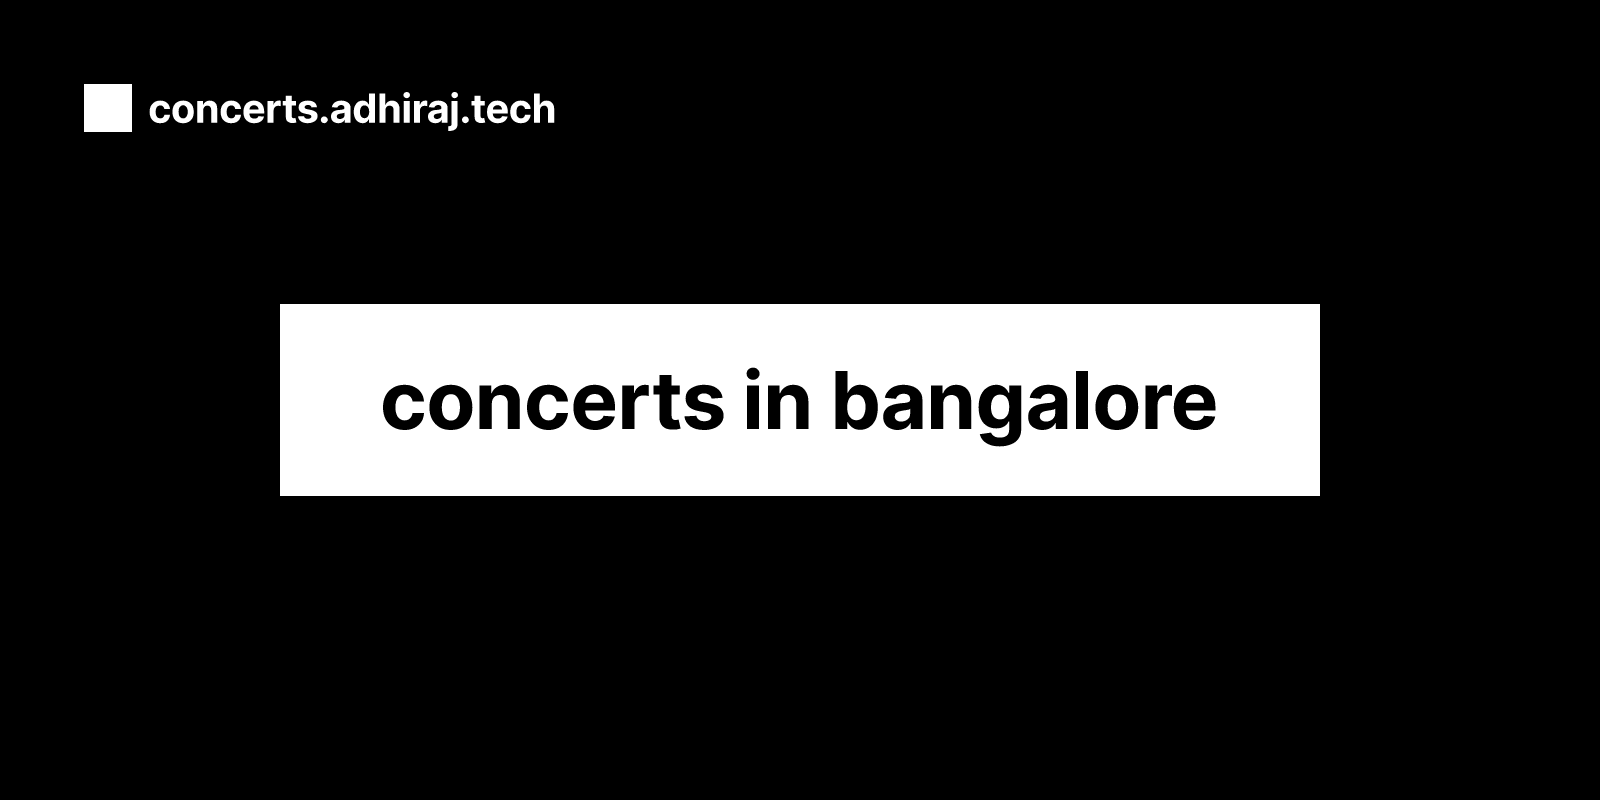
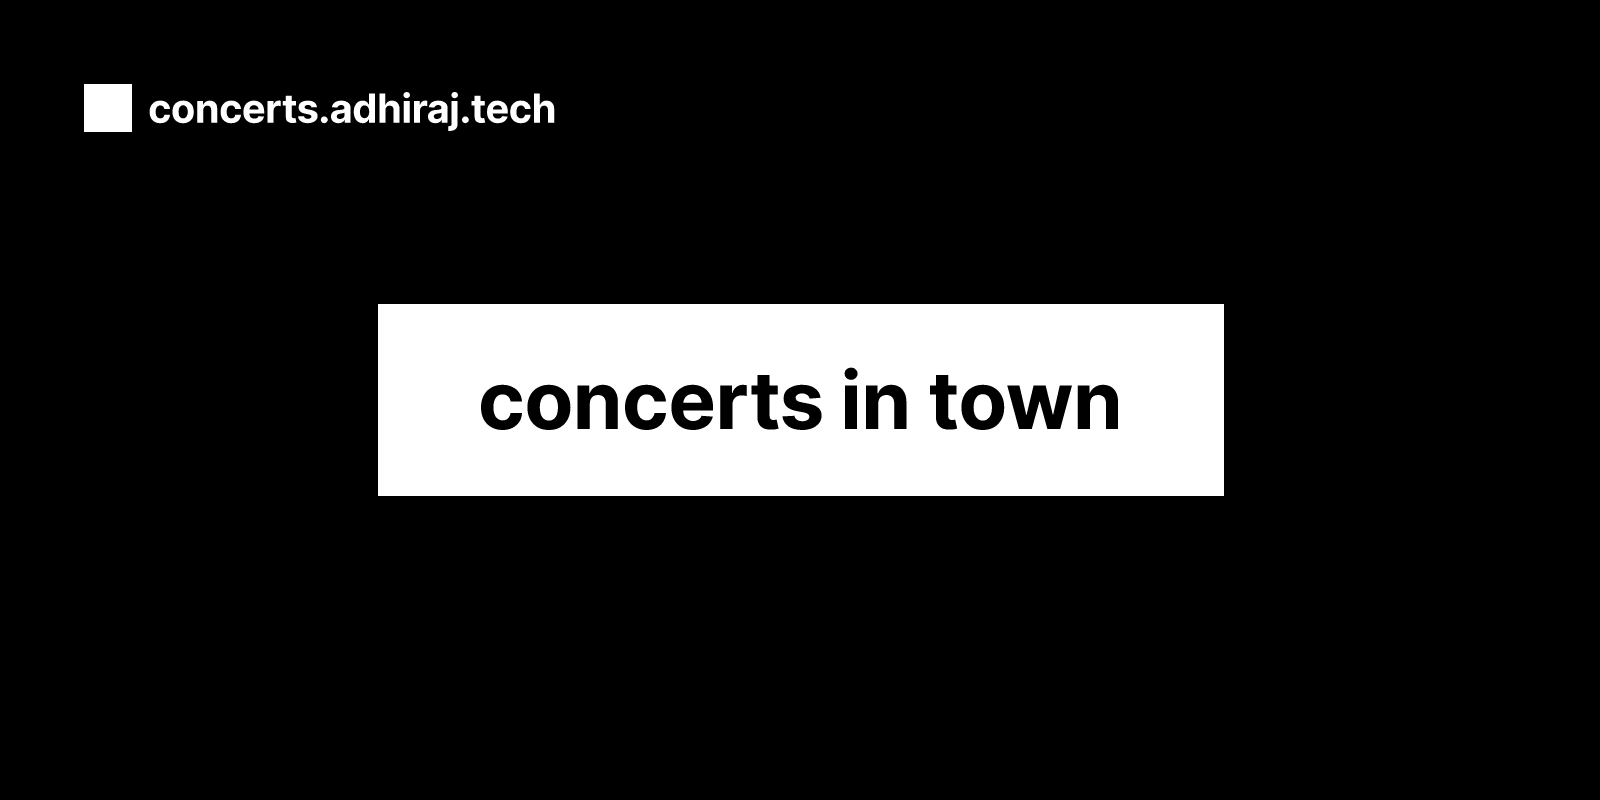
feat: dynamic metadata, added loading.tsx

Changed region(s): [[0.1562, 0.375, 0.8438, 0.625]]

diff --git a/src/app/(city)/[slug]/page.tsx b/src/app/(city)/[slug]/page.tsx
@@ -2,12 +2,30 @@ import { ConcertCard } from "@/components/concert-card";
 import { LOCATIONS } from "@/lib/config";
 import { VenueEvent } from "@/lib/types";
 import { eventsFetcher, isValidCity } from "@/lib/utils";
+import type { Metadata, ResolvingMetadata } from "next";
 
-export default async function Page({
-  params,
-}: {
+type Props = {
   params: Promise<{ slug: string }>;
-}) {
+};
+
+export async function generateMetadata(
+  { params }: Props,
+  parent: ResolvingMetadata
+): Promise<Metadata> {
+  const slug = (await params).slug;
+  // optionally access and extend (rather than replace) parent metadata
+  const previousImages = (await parent).openGraph?.images || [];
+
+  return {
+    // title: `concerts in ${slug}`,
+    title: slug,
+    openGraph: {
+      images: ["/some-specific-page-image.jpg", ...previousImages],
+    },
+  };
+}
+
+export default async function Page({ params }: Props) {
   const slug = (await params).slug;
   if (isValidCity(slug)) {
     const { geoHash, geonameId } = LOCATIONS[slug];

diff --git a/src/app/layout.tsx b/src/app/layout.tsx
@@ -1,4 +1,5 @@
 import { PROD_URL } from "@/lib/config";
+import { cities } from "@/lib/utils";
 import { Analytics } from "@vercel/analytics/react";
 import type { Metadata } from "next";
 import { Inter } from "next/font/google";
@@ -10,15 +11,15 @@ const inter = Inter({
 });
 
 export const metadata: Metadata = {
-  title: "concerts in bangalore",
+  title: "concerts in town",
   description: "scraped directly from spotify",
   metadataBase: new URL(PROD_URL),
   openGraph: {
-    siteName: "concerts in bangalore",
-    title: "concerts in bangalore",
+    siteName: "concerts in town",
+    title: "concerts in town",
     description: "scraped directly from spotify",
     url: PROD_URL,
-    tags: ["concerts", "bangalore", "spotify", "bengaluru"],
+    tags: ["concerts", "spotify", "bengaluru", "town"].concat(cities),
   },
 };
 

diff --git a/src/app/(city)/layout.tsx b/src/app/(city)/layout.tsx
@@ -1,16 +1,9 @@
-import { PROD_URL } from "@/lib/config";
 import type { Metadata } from "next";
 
 export const metadata: Metadata = {
-  title: "concerts in bangalore",
-  description: "scraped directly from spotify",
-  metadataBase: new URL(PROD_URL),
-  openGraph: {
-    siteName: "concerts in bangalore",
-    title: "concerts in bangalore",
-    description: "scraped directly from spotify",
-    url: PROD_URL,
-    tags: ["concerts", "bangalore", "spotify", "bengaluru"],
+  title: {
+    template: "concerts in %s",
+    default: "town",
   },
 };
 

diff --git a/src/app/(city)/loading.tsx b/src/app/(city)/loading.tsx
@@ -1,0 +1,3 @@
+export default function Loading() {
+  return <div className="text-zinc-200">Loading...</div>;
+}
